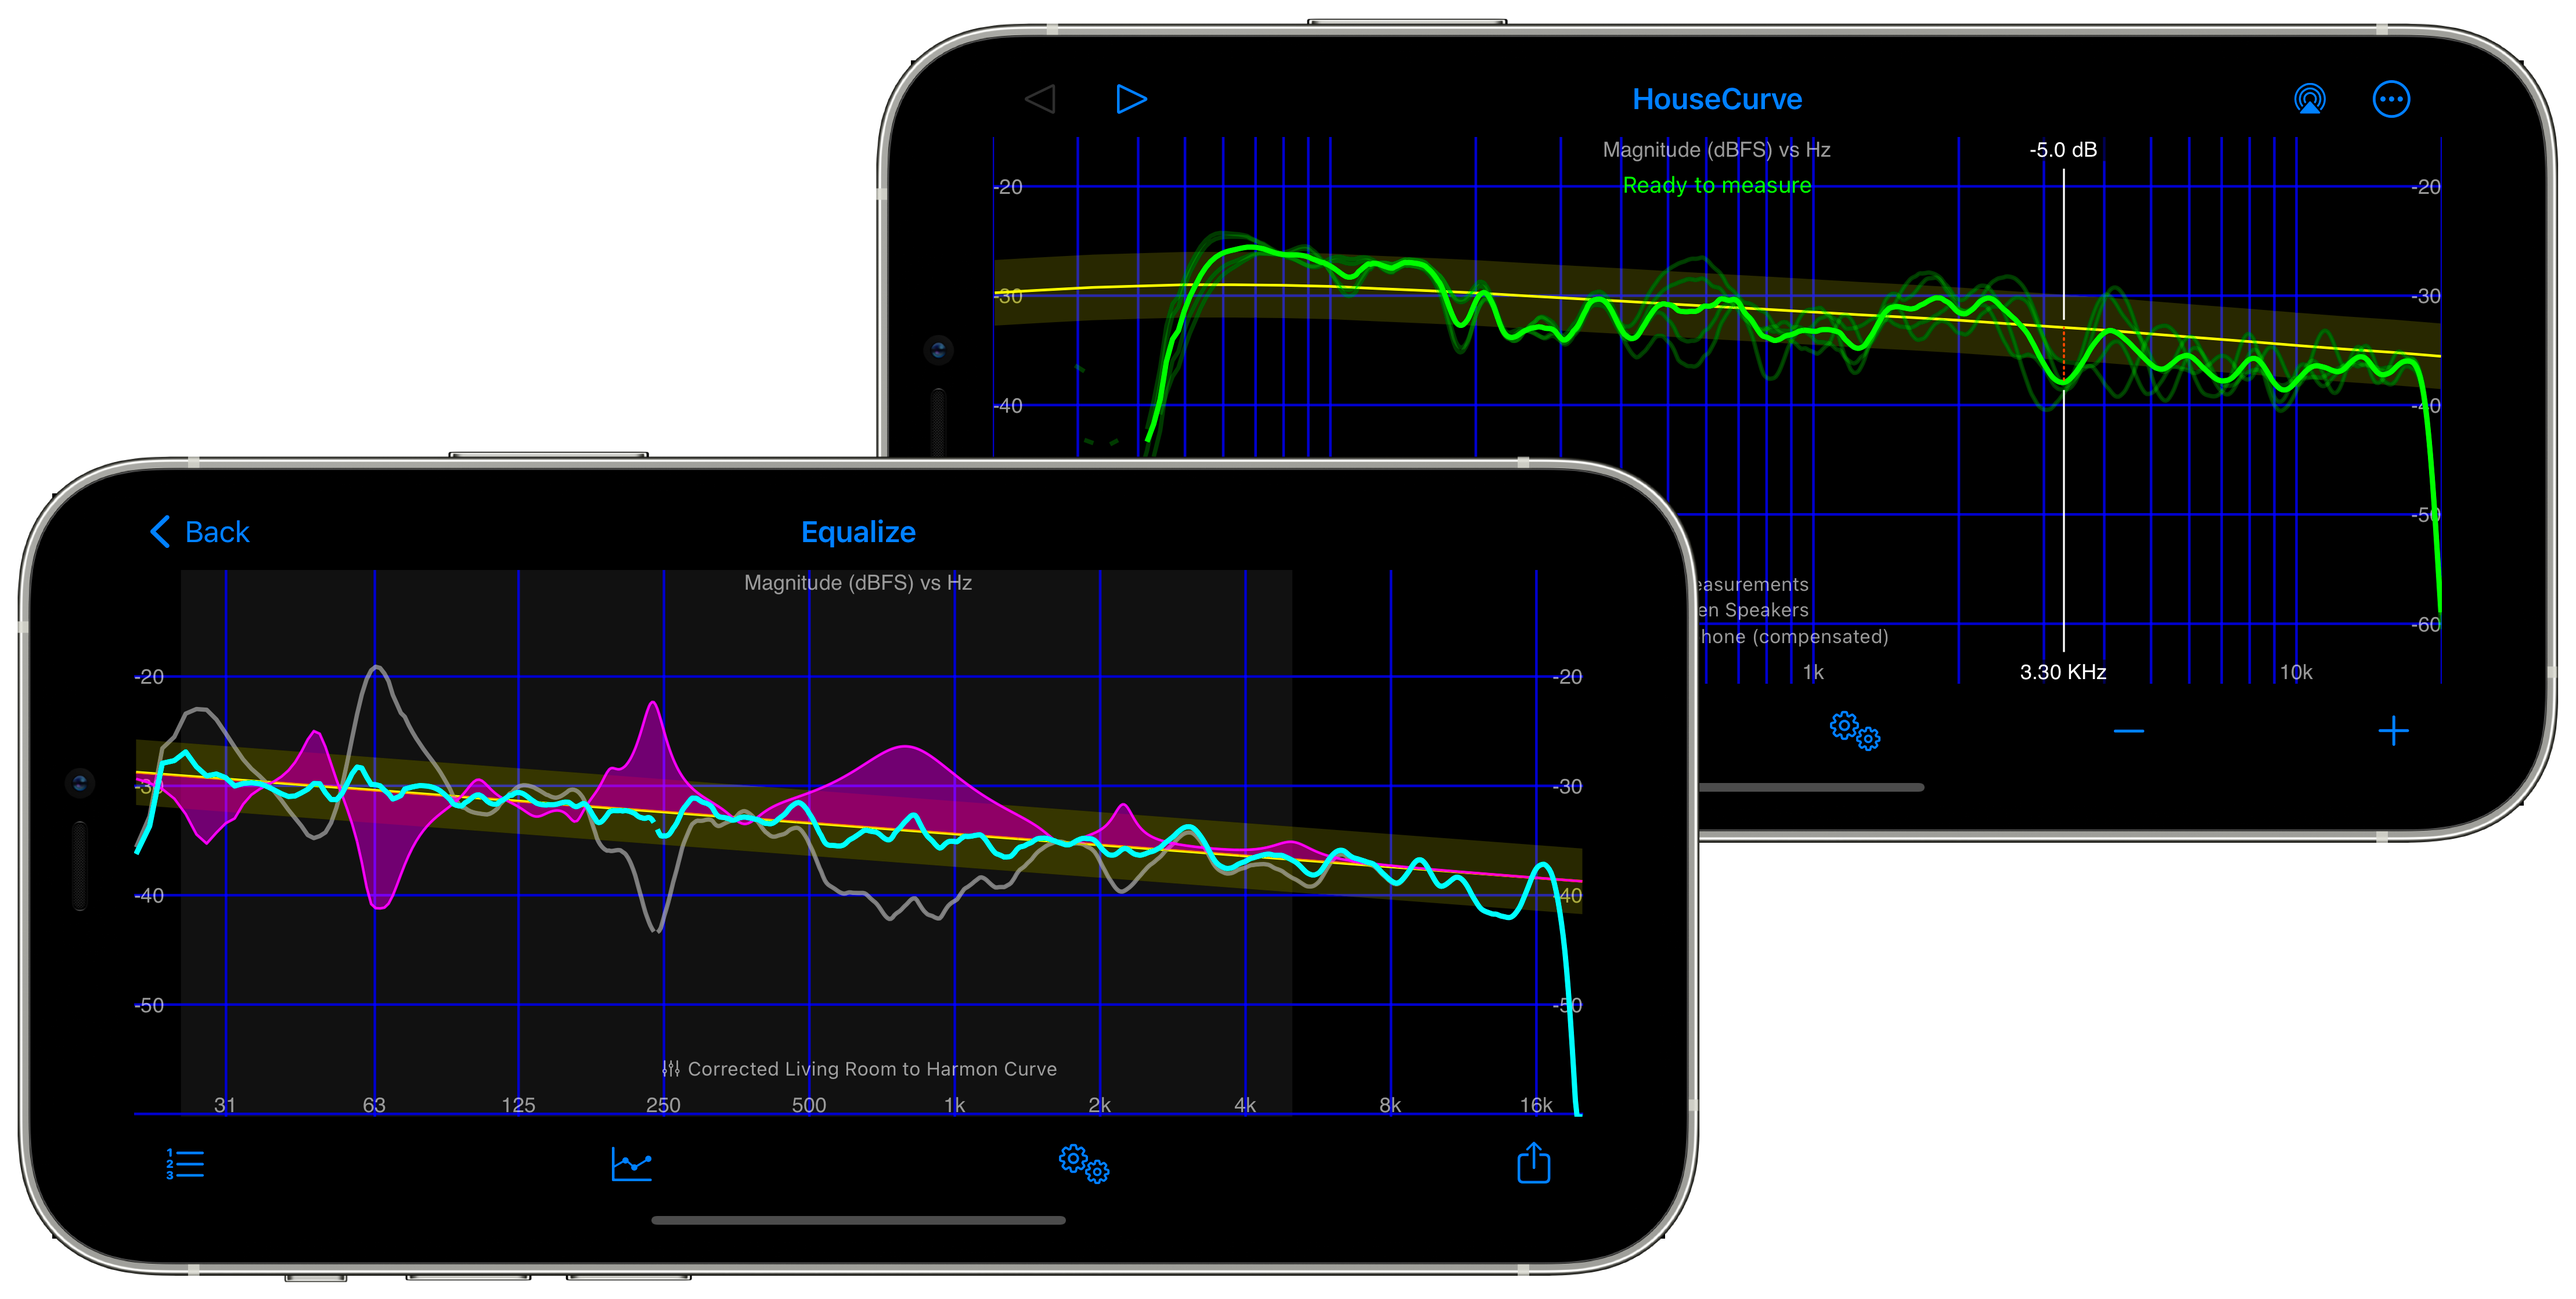
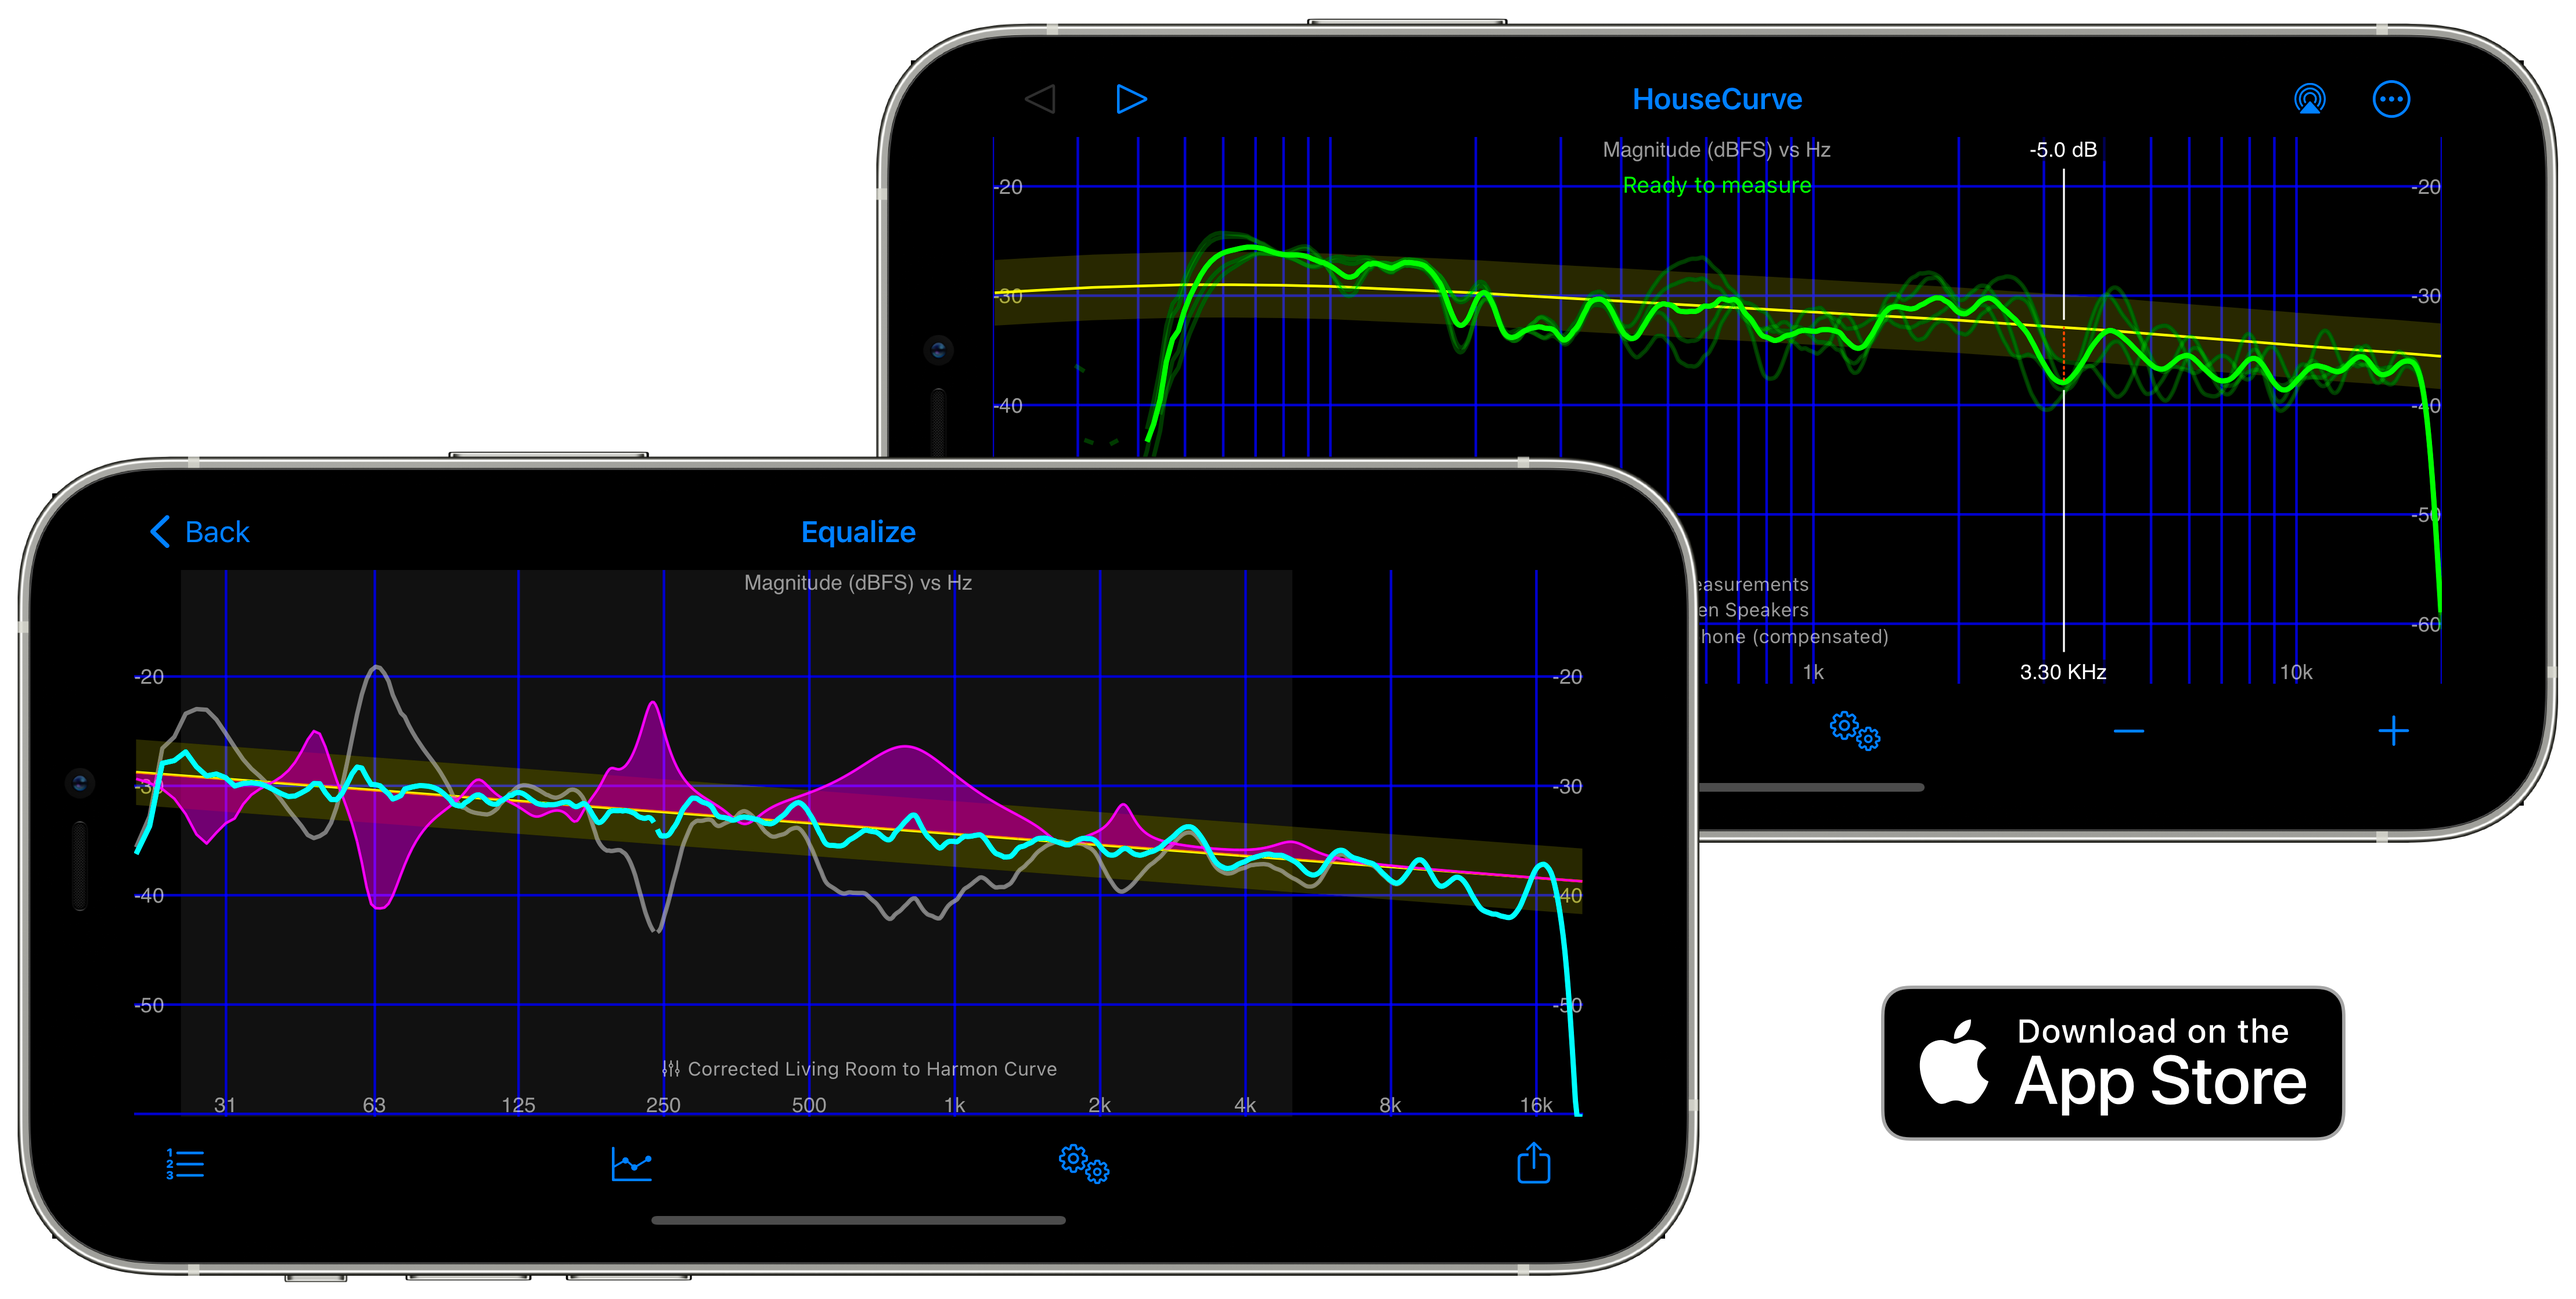
Making main image a link to app store
- put app store link in config

Changed region(s): [[0.7153, 0.7399, 0.9331, 0.8941]]

diff --git a/_includes/sidebar_footer.html b/_includes/sidebar_footer.html
@@ -1,1 +1,1 @@
-<a href="https://apps.apple.com/ca/app/housecurve/id1470695018"><img src="/assets/img/appstore.svg"/></a>
+<a href="{{ site.appstore }}"><img src="/assets/img/appstore.svg"/></a>

diff --git a/docs/README.md b/docs/README.md
@@ -10,7 +10,7 @@ title: Main
 
 HouseCurve is an iOS app for tuning audio systems.  Use it to adjust equalizers, set subwoofer phase, choose crossovers, match levels and more.
 
-![housecurve main](/assets/img/housecurve_main_page.png "HouseCurve screenshots")
+[![housecurve main](/assets/img/housecurve_main_page.png "HouseCurve screenshots")]({{ site.appstore }})
 
 {% include features.html %}
 
